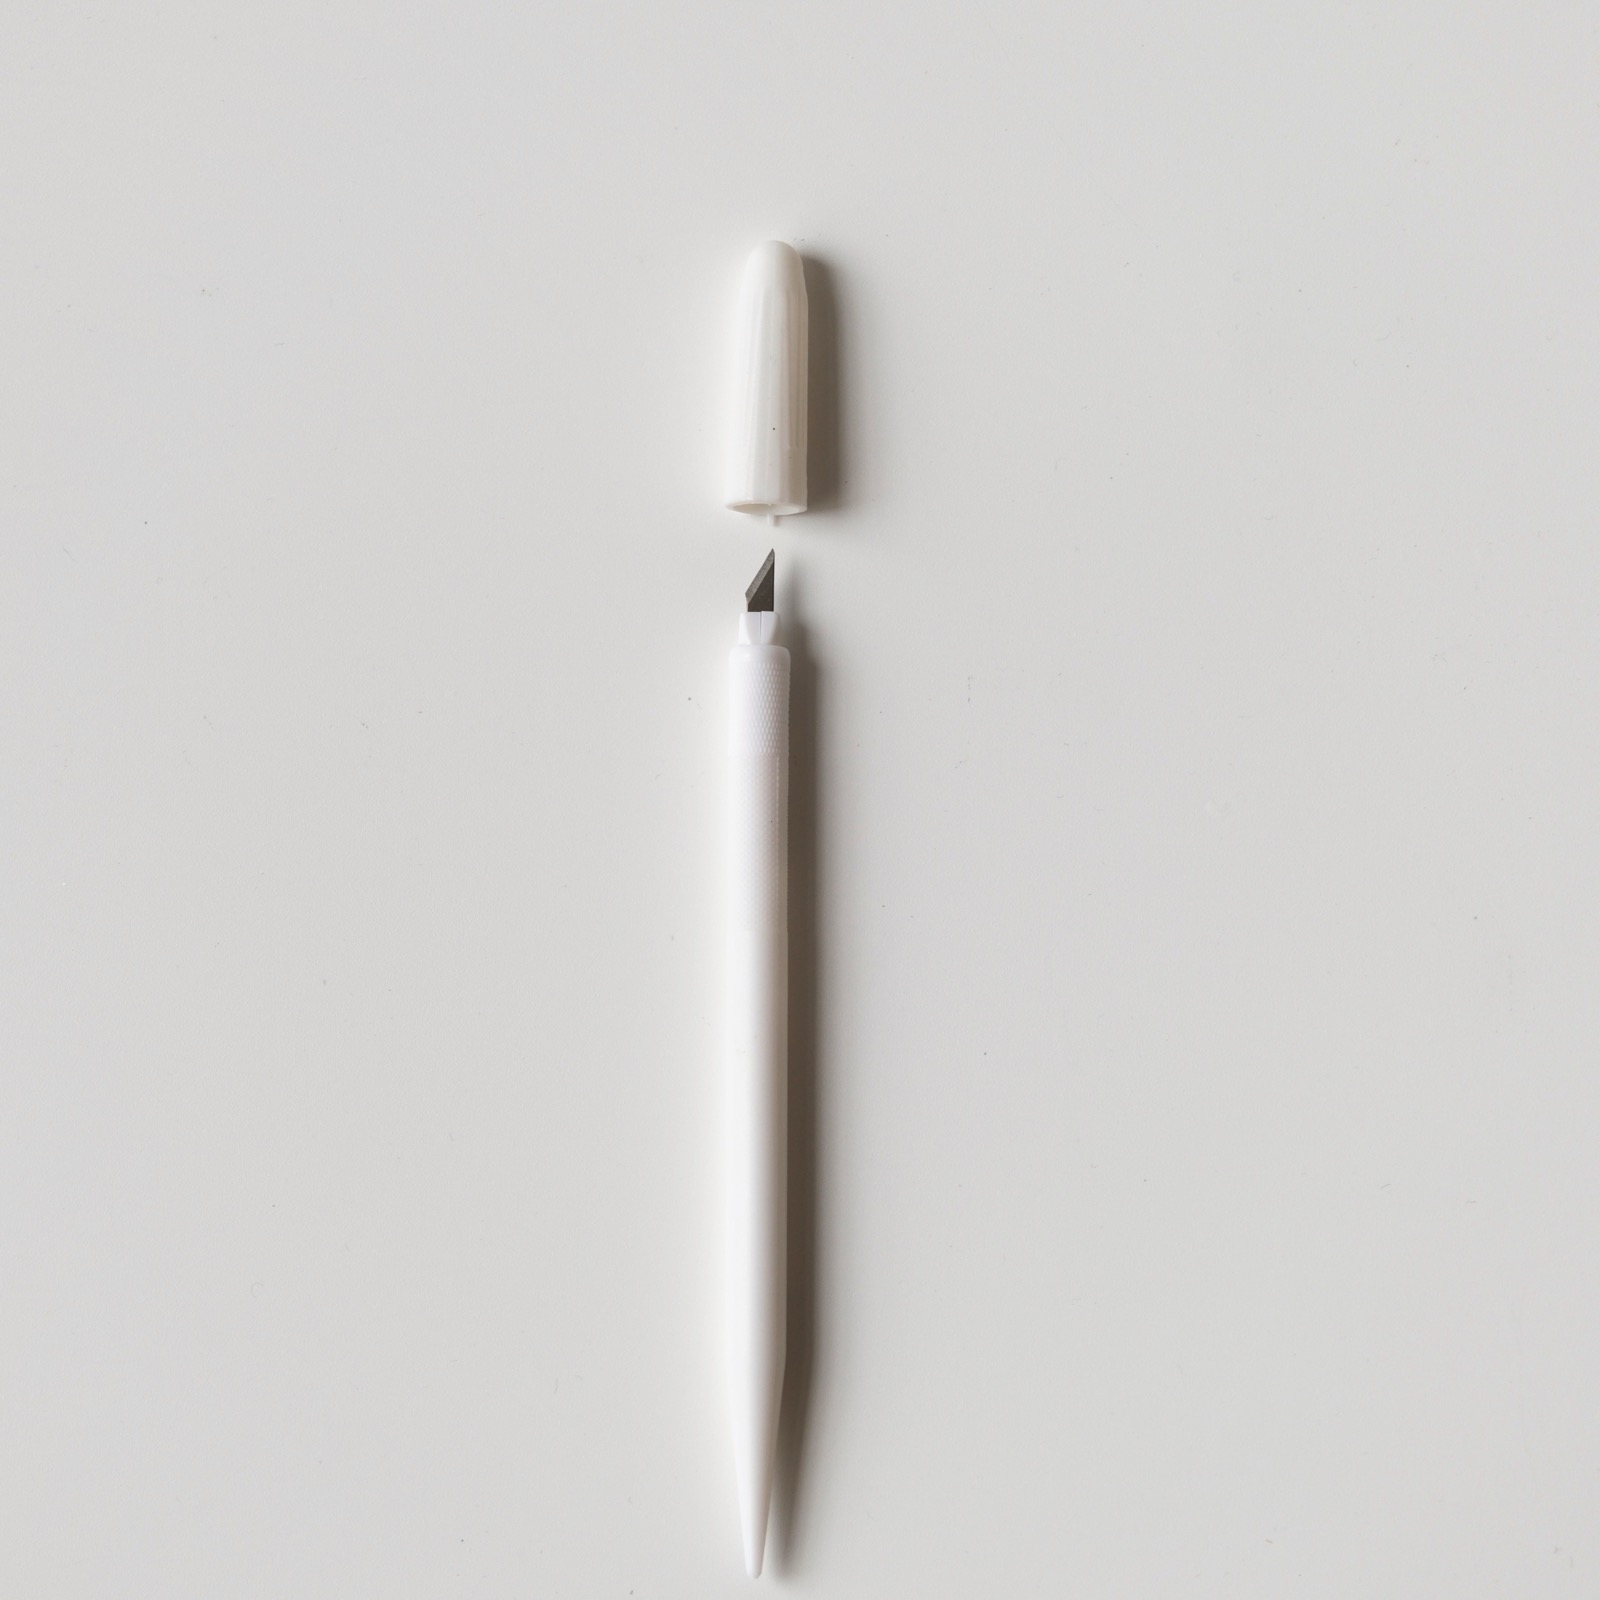
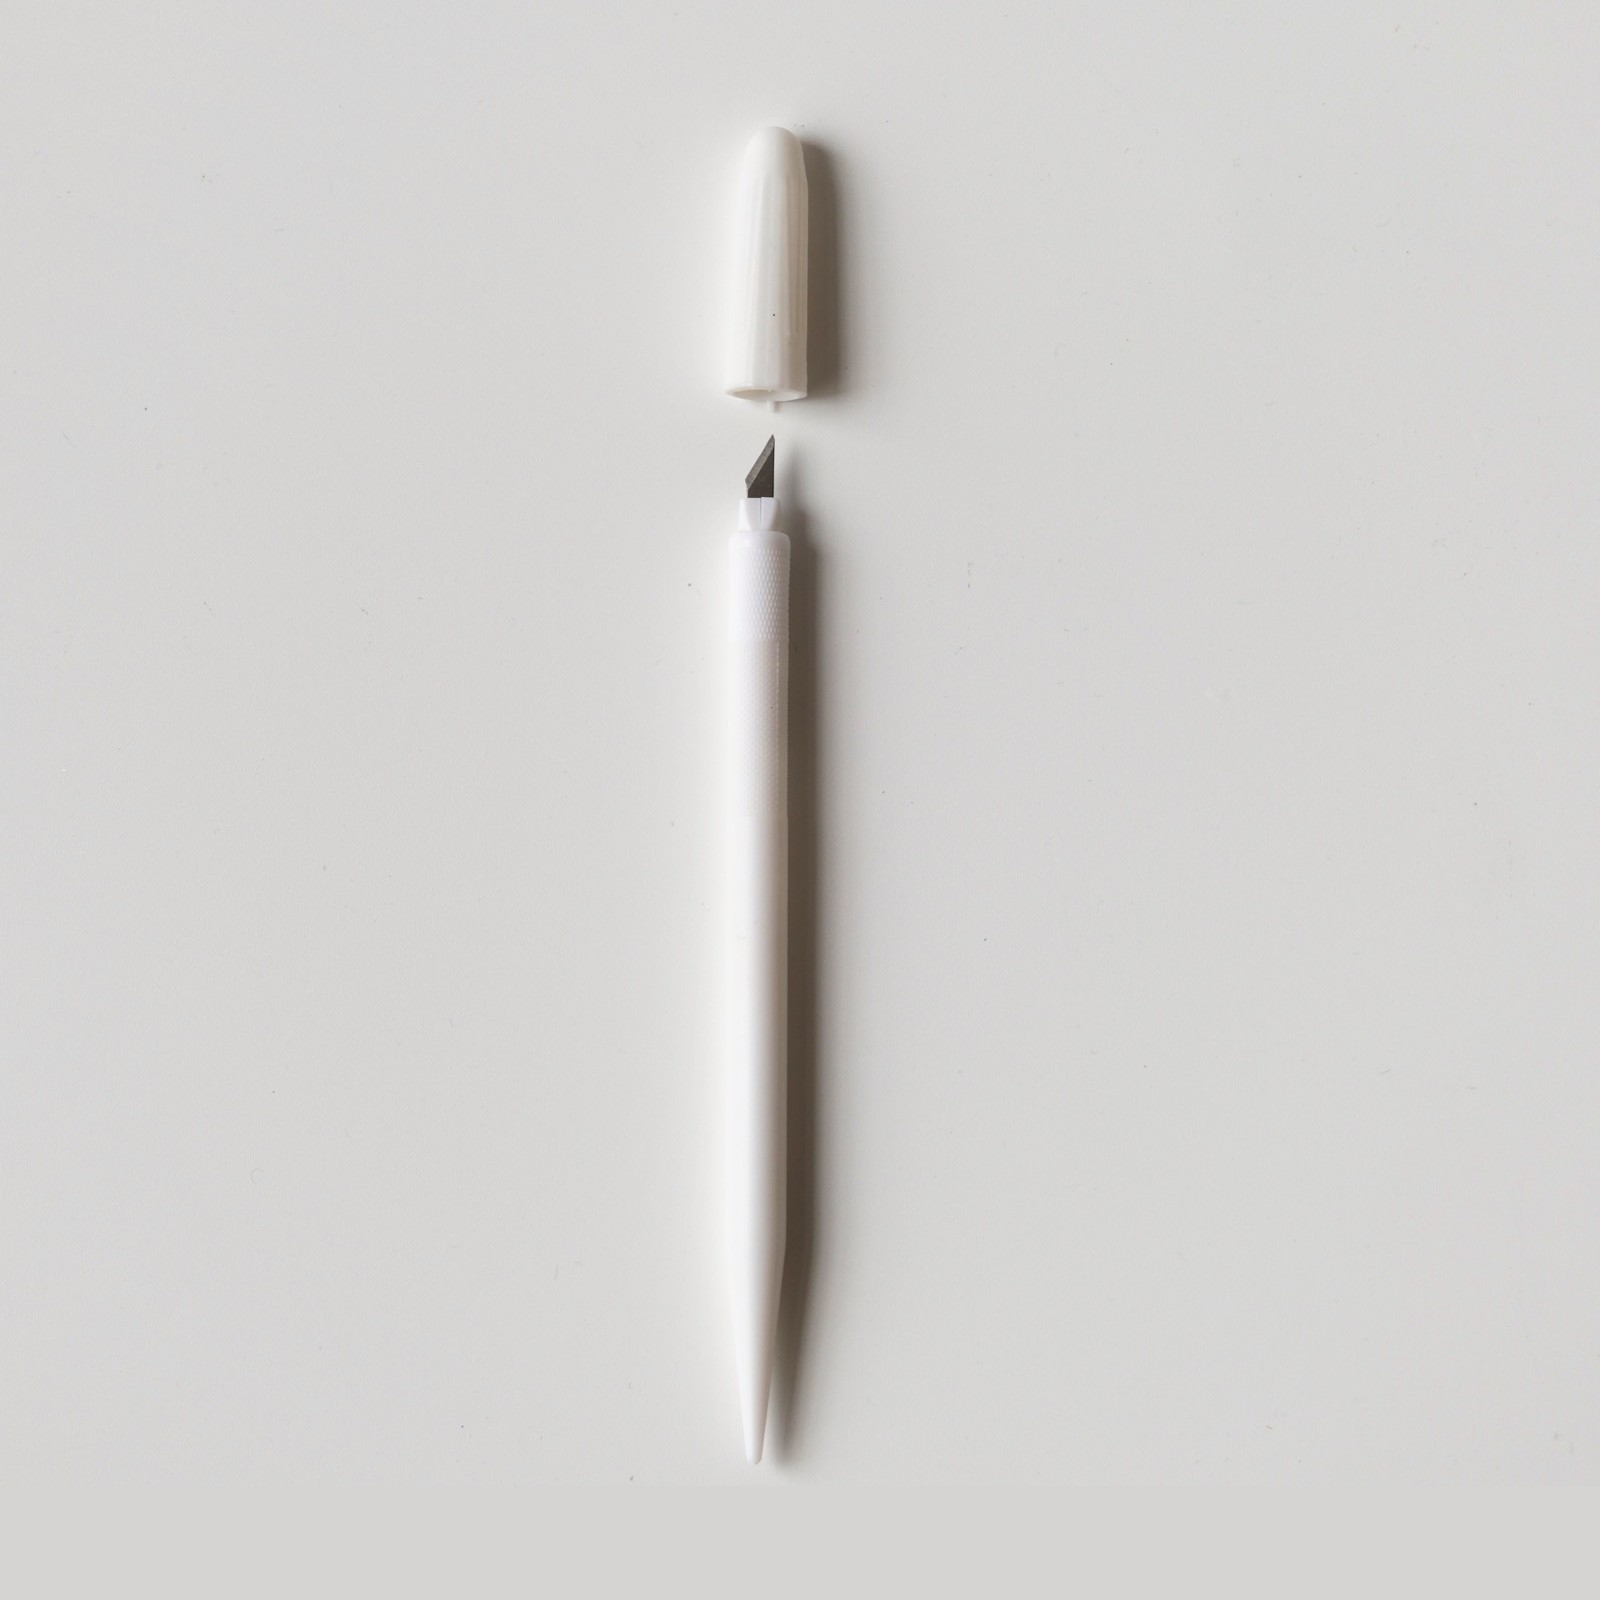
沙畫加購筆刀：調整照片垂直置中，更新「適合誰加購」文案
照片原本上邊距235px、下邊距只有6px，筆刀整體偏低；整張內容上移
約114px後兩邊各約120px，置中平衡。文案改為強調夾子是輔助夾取、
不是掀貼紙的工具，沙畫施作建議自備美工刀，meta description等同步
更新用詞。

Changed region(s): [[0.4375, 0.2188, 0.5625, 0.4062], [0.4375, 0.7812, 0.5312, 1.0], [0.4375, 0.0625, 0.5625, 0.1875]]

diff --git a/products/sand-art-craft-knife/index.html b/products/sand-art-craft-knife/index.html
@@ -4,17 +4,17 @@
   <meta charset="utf-8">
   <meta name="viewport" content="width=device-width, initial-scale=1">
   <title>沙畫加購筆刀｜日宣繪畫室</title>
-  <meta name="description" content="沙畫加購筆刀，NT$60。材料包附的夾子偏向輔助固定，刻細節線條建議自備美工刀，沒有準備的話可以加購這支筆刀。">
+  <meta name="description" content="沙畫加購筆刀，NT$60。材料包附的夾子偏向輔助夾取，不是用來掀開貼紙的工具，施作時建議自備美工刀，沒有準備的話可以加購這支筆刀。">
   <link rel="canonical" href="https://risuanart.com/products/sand-art-craft-knife/">
   <meta property="og:type" content="website">
   <meta property="og:title" content="沙畫加購筆刀｜日宣繪畫室">
-  <meta property="og:description" content="材料包附的夾子偏向輔助固定，刻細節線條建議自備美工刀，沒有準備的話可以加購這支筆刀。NT$60。">
+  <meta property="og:description" content="材料包附的夾子偏向輔助夾取，不是用來掀開貼紙的工具，施作時建議自備美工刀，沒有準備的話可以加購這支筆刀。NT$60。">
   <meta property="og:image" content="https://risuanart.com/assets/images/products/sand-art-craft-knife/sand-art-craft-knife-main.jpg">
   <meta property="og:url" content="https://risuanart.com/products/sand-art-craft-knife/">
   <meta property="og:locale" content="zh_TW">
   <meta name="twitter:card" content="summary_large_image">
   <meta name="twitter:title" content="沙畫加購筆刀｜日宣繪畫室">
-  <meta name="twitter:description" content="材料包附的夾子偏向輔助固定，刻細節線條建議自備美工刀，沒有準備的話可以加購這支筆刀。NT$60。">
+  <meta name="twitter:description" content="材料包附的夾子偏向輔助夾取，不是用來掀開貼紙的工具，施作時建議自備美工刀，沒有準備的話可以加購這支筆刀。NT$60。">
   <meta name="twitter:image" content="https://risuanart.com/assets/images/products/sand-art-craft-knife/sand-art-craft-knife-main.jpg">
   <script type="application/ld+json">
   {
@@ -22,7 +22,7 @@
     "@type": "Product",
     "name": "沙畫加購筆刀",
     "image": "https://risuanart.com/assets/images/products/sand-art-craft-knife/sand-art-craft-knife-main.jpg",
-    "description": "刻細節線條用的筆刀，材料包附的夾子偏向輔助固定，建議自備美工刀，沒有準備的話可以加購這支筆刀。",
+    "description": "材料包附的夾子偏向輔助夾取，不是用來掀開貼紙的工具，沙畫施作時建議自備美工刀，沒有準備的話可以加購這支筆刀。",
     "offers": {
       "@type": "Offer",
       "url": "https://risuanart.com/products/sand-art-craft-knife/",
@@ -179,7 +179,8 @@
     <section class="chapter fade-in">
       <h2 class="chapter__title">適合誰加購？</h2>
       <div class="chapter__intro">
-        <p>材料包裡附的夾子，使用上比較偏向輔助固定，不是設計來刻細節線條的工具。<br>如果作品裡有想特別勾勒的細節，像是文字邊緣、花瓣輪廓，我們建議客人自備美工刀來處理。</p>
+        <p>材料包裡附的夾子，使用上偏向輔助夾取，不是設計來將貼紙掀開的工具。</p>
+        <p>沙畫材料包施作時，建議可以自備美工刀！</p>
         <p>如果臨時沒有準備，或是想要一支順手的工具，可以加購這支筆刀。</p>
       </div>
     </section>
